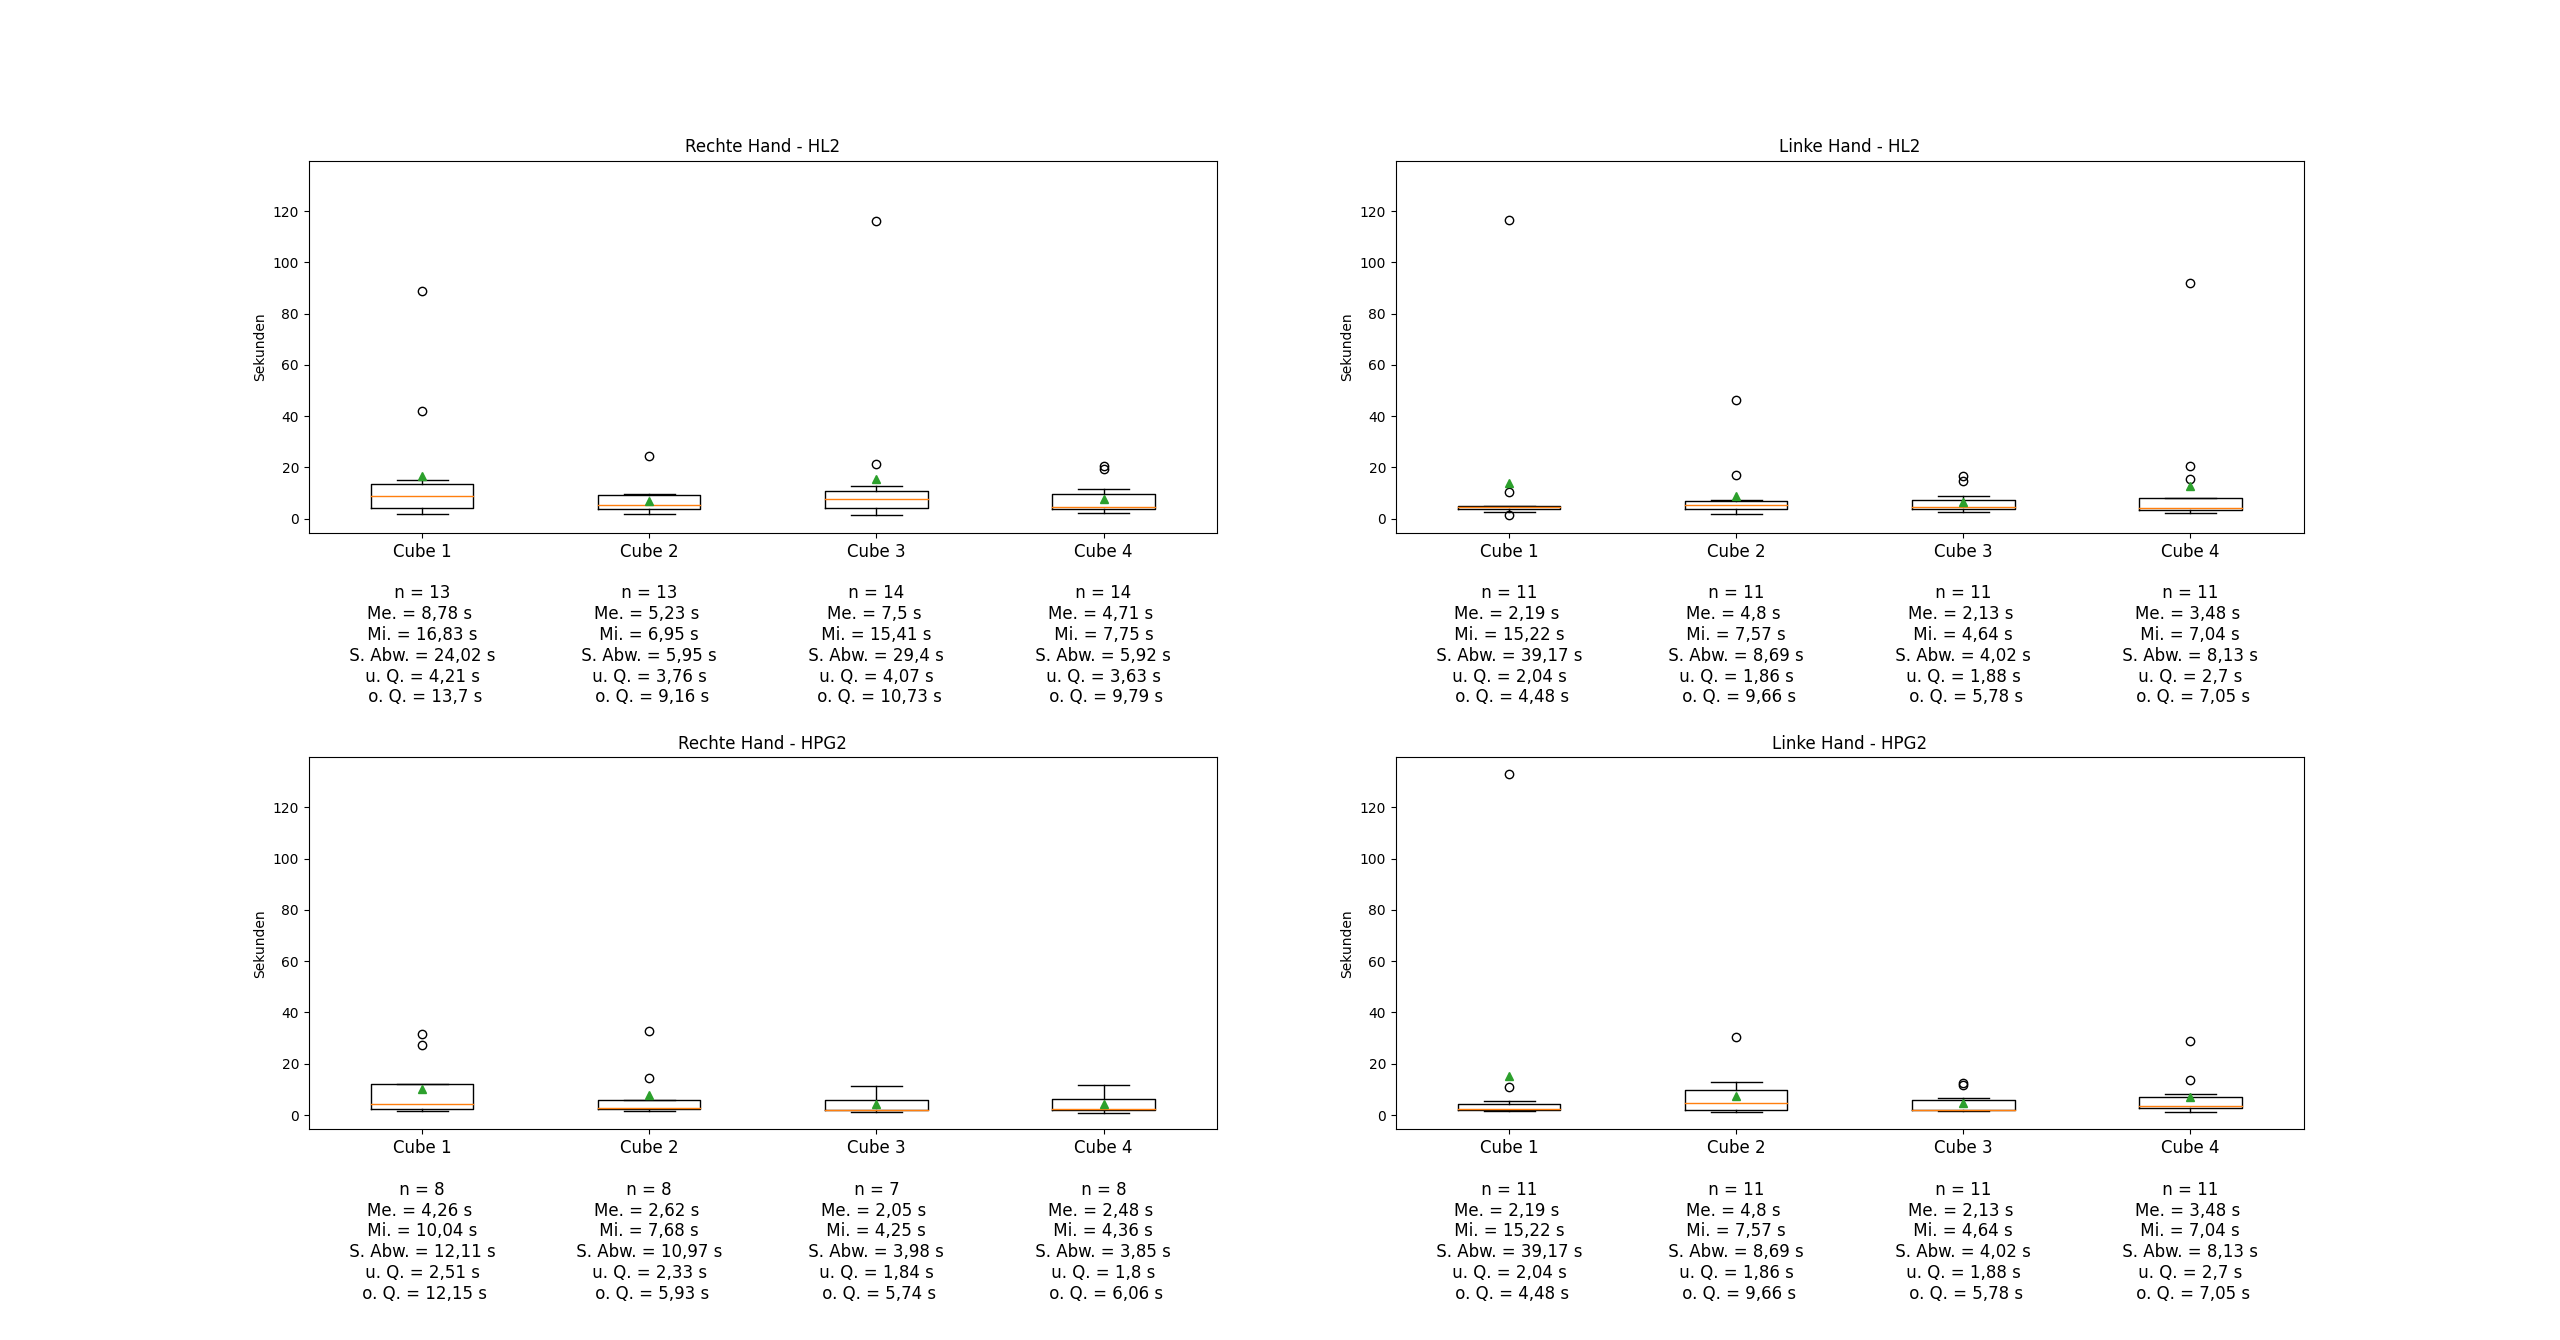
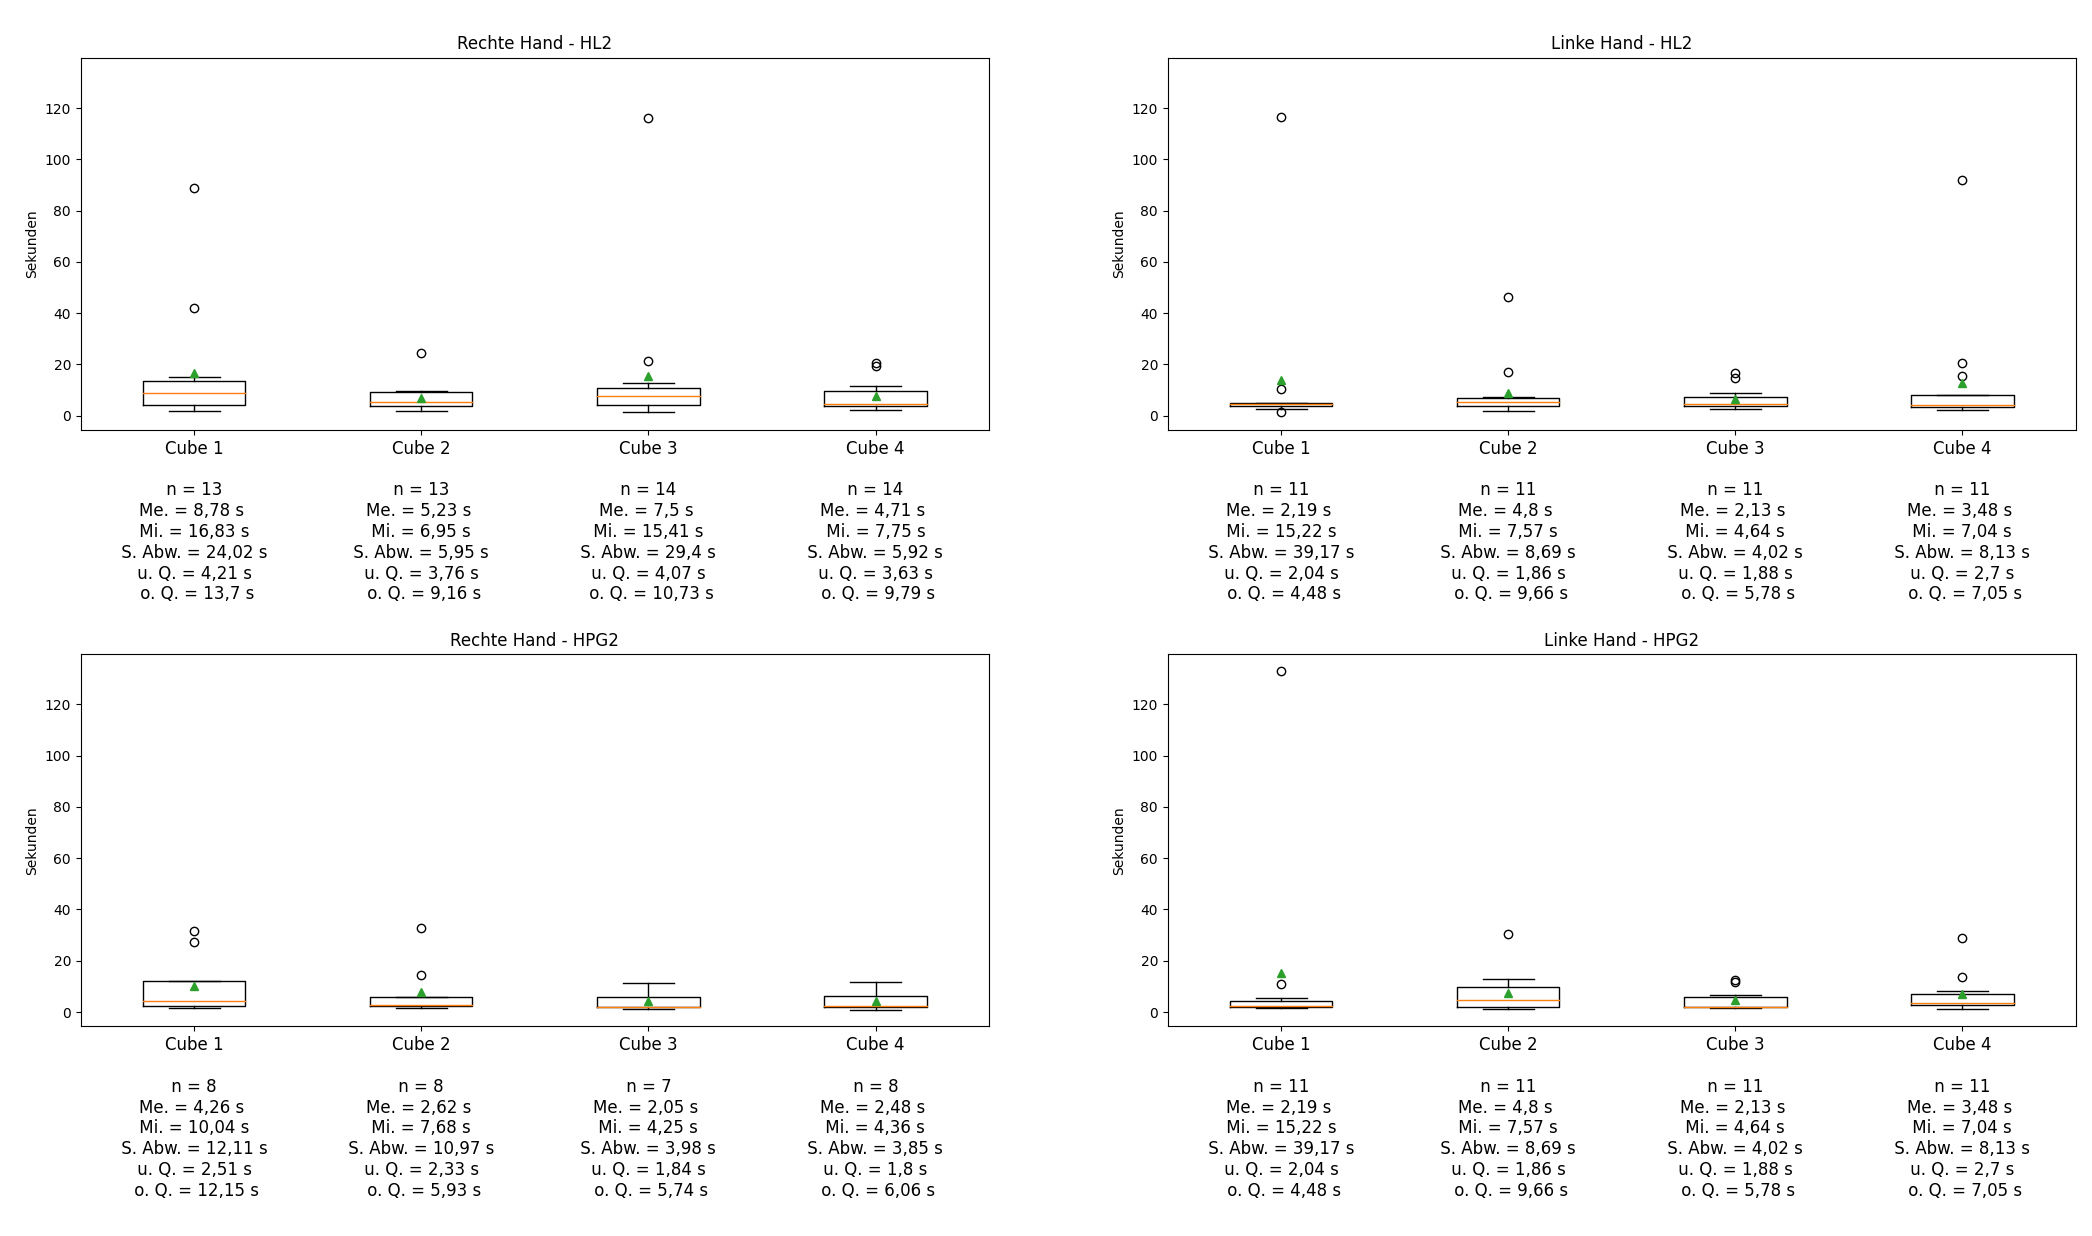
grinding on sn plot

diff --git a/ILM_WS202223/scene_SubmitNear/UWP/UWP_submitNear_Devices_Aggregate.py b/ILM_WS202223/scene_SubmitNear/UWP/UWP_submitNear_Devices_Aggregate.py
@@ -8,6 +8,9 @@ from statistics import mean
 import sys
 sys.path.append('C:/Users/Benedikt/Documents/dev/MA_LogParser/logparser/ILM_WS202223')
 import generalfunctions as gf
+import seaborn as sns
+from pandas.plotting import table
+from pandas.plotting import table
 
 from pymongo import MongoClient
 
@@ -569,44 +572,74 @@ if __name__ == "__main__":
     axs[1, 1].violinplot(box_aggrLeft_HL2, showmedians=True)
     axs[1, 1].sharey(axs[0, 0])
 
-    axs[0, 0].set(ylabel='Sekunden')
-    axs[0, 1].set(ylabel='Sekunden')
-    axs[1, 0].set(ylabel='Sekunden')
-    axs[1, 1].set(ylabel='Sekunden')
+    axs[0, 0].set_ylabel('Sekunden', fontsize=12)
+    axs[0, 1].set_ylabel('Sekunden', fontsize=12)
+    axs[1, 0].set_ylabel('Sekunden', fontsize=12)
+    axs[1, 1].set_ylabel('Sekunden', fontsize=12)
+
 
 
 
     descArray = ['Sn-1-Wi-R-HPG2', 'Sn-2-Wi-R-HPG2']
-    num, val = gf.setXTicksMin(box_aggrRight_HPG2, descArray)
-    axs[0, 0].set_title('1. Rechte Hand - HPG2')
+    num, val, df1 = gf.setXTicksMin(box_aggrRight_HPG2, descArray)
+    axs[0, 0].yaxis.grid(True, linestyle='-', which='major', color='lightgrey', alpha=0.5)
+    axs[0, 0].set_title('1. Rechte Hand - HPG2', fontsize=15)
     axs[0, 0].set_xticks(num, val)
     print('1. Rechte Hand - HPG2')
-    gf.reqLatexTableOutput(box_aggrRight_HPG2, descArray)
+    ttable = table(axs[0, 0], df1, loc='bottom', colLoc='center', cellLoc='center')
+    for key, cell in ttable.get_celld().items():
+        cell.set_edgecolor('lightgrey')
+        cell.set_height(0.05)
+    ttable.set_fontsize(12)
+    ttable.auto_set_font_size(False)
 
 
 
     descArray = ['Sn-1-Wi-R-HL2', 'Sn-2-Wi-R-HL2']
-    num, val = gf.setXTicksMin(box_aggrRight_HL2, descArray)
-    axs[1, 0].set_title('1. Rechte Hand - HL2')
-    axs[1, 0].set_xticks(num, val)
+    num, val, df2 = gf.setXTicksMin(box_aggrRight_HL2, descArray)
+    axs[1, 0].yaxis.grid(True, linestyle='-', which='major', color='lightgrey', alpha=0.5)
+    axs[1, 0].set_title('1. Rechte Hand - HL2', fontsize=15)
     print('1. Rechte Hand - HL2')
     gf.reqLatexTableOutput(box_aggrRight_HL2, descArray)
+    ttable = table(axs[1, 0], df2, loc='bottom', colLoc='center', cellLoc='center')
+    for key, cell in ttable.get_celld().items():
+        cell.set_edgecolor('lightgrey')
+        cell.set_height(0.05)
+    ttable.set_fontsize(12)
+    ttable.auto_set_font_size(False)
+    axs[1, 0].set_xticks([])
 
 
     descArray = ['Sn-1-Wi-L-HPG2', 'Sn-2-Wi-L-HPG2']
-    num, val = gf.setXTicksMin(box_aggrLeft_HL2, descArray)
-    axs[0, 1].set_title('2. Linke Hand - HPG2')
-    axs[0, 1].set_xticks(num, val)
+    num, val, df3 = gf.setXTicksMin(box_aggrLeft_HL2, descArray)
+    df3= df3.reset_index(drop=True)
+    axs[0, 1].set_title('2. Linke Hand - HPG2', fontsize=15)
+    axs[0, 1].yaxis.grid(True, linestyle='-', which='major', color='lightgrey', alpha=0.5)
     print('2. Linke Hand - HPG2')
     gf.reqLatexTableOutput(box_aggrLeft_HL2, descArray)
+    ttable = table(axs[0, 1], df3, loc='bottom', colLoc='center', cellLoc='center')
+    for key, cell in ttable.get_celld().items():
+        cell.set_edgecolor('lightgrey')
+        cell.set_height(0.05)
+    ttable.set_fontsize(12)
+    ttable.auto_set_font_size(False)
+    axs[0, 1].set_xticks([])
 
 
     descArray = ['Sn-1-Wi-L-HL2', 'Sn-2-Wi-L-HL2']
-    num, val = gf.setXTicksMin(box_aggrLeft_HPG2, descArray)
-    axs[1, 1].set_title('2. Linke Hand - HL2')
-    axs[1, 1].set_xticks(num, val)
+    num, val, df4 = gf.setXTicksMin(box_aggrLeft_HPG2, descArray)
+    df4 = df4.reset_index(drop=True)
+    axs[1, 1].set_title('2. Linke Hand - HL2', fontsize=15)
+    axs[1, 1].yaxis.grid(True, linestyle='-', which='major', color='lightgrey', alpha=0.5)
     print('2. Linke Hand - HL2')
     gf.reqLatexTableOutput(box_aggrLeft_HPG2, descArray)
+    ttable = table(axs[1, 1], df4, loc='bottom', colLoc='center', cellLoc='center')
+    for key, cell in ttable.get_celld().items():
+        cell.set_edgecolor('lightgrey')
+        cell.set_height(0.05)
+    ttable.set_fontsize(12)
+    ttable.auto_set_font_size(False)
+    axs[1, 1].set_xticks([])
 
     plt.show()
 

diff --git a/ILM_WS202223/mentally-preparing_Operator/UWP_M_First_Times_Scenes.py b/ILM_WS202223/mentally-preparing_Operator/UWP_M_First_Times_Scenes.py
@@ -8,6 +8,13 @@ from statistics import mean
 
 from pymongo import MongoClient
 
+import seaborn as sns
+from pandas.plotting import table
+from pandas.plotting import table
+import sys
+sys.path.append('C:/Users/Benedikt/Documents/dev/MA_LogParser/logparser/ILM_WS202223')
+import generalfunctions as gf
+
 
 ###
 ### For figuring out the operating times for teleporting
@@ -425,40 +432,56 @@ if __name__ == "__main__":
 
     col = dbname["uwp"]
 
-    probands = ['A01', 'A02', 'A03', 'A04', 'A05', 'A06', 'A07', 'A08', 'A09', 'A10', 'A11', 'A12',
-                'A13', 'A14', 'A15', 'A16', 'A17', 'A18',
-                'A19', 'A20', 'A21', 'A22', 'A23', 'A24', 'A25', 'A26', 'A27', 'A28']
+    probands = ['A01', 'A02', 'A03', 'A04', 'A05', 'A06', 'A07', 'A08', 'A09', 'A10',
+                'A11', 'A12', 'A13', 'A14', 'A15', 'A16', 'A17', 'A18', 'A19', 'A20',
+                'A21', 'A22', 'A23', 'A24', 'A25', 'A26', 'A27', 'A28']
     print(probands)
 
     devices = ['HL2']
     M_UWP_HL2_scenes = runAnalyzeElementSteps(probands, devices)
-    writeToDb('M_UWP_HL2_scenes', M_UWP_HL2_scenes)
+    writeToDb('M-AR', M_UWP_HL2_scenes)
 
     devices = ['HPG2']
     M_UWP_HPG2_scenes = runAnalyzeElementSteps(probands, devices)
-    writeToDb('M_UWP_HPG2_scenes', M_UWP_HPG2_scenes)
+    writeToDb('M-VR', M_UWP_HPG2_scenes)
 
     #sceneArray = [pointArray, gazeArray, grabRightArray, grabLeftArray,
     #              subFarRightArray, subFarLeftArray, subNearRightArray, subNearLeftArray]
 
-    descArray = ['Point', 'Gaze', 'GR Right', 'GR Left', 'SF Right', 'SF Left', 'SN Right', 'SN Left']
+    descArray = ['Point', 'Gaze', 'Gr Right', 'Gr Left', 'Sf Right', 'Sf Left', 'Sn Right', 'Sn Left']
 
     fig, axs = plt.subplots(1, 2, figsize=(10, 8))
 
 
-    axs[0].set_title('HL2')
+    axs[0].set_title('HoloLens 2', fontsize=15)
     axs[0].boxplot(M_UWP_HL2_scenes, showmeans=True)
-    num, val = setXTicks_param(M_UWP_HL2_scenes, descArray)
-    axs[0].set_xticks(num, val)
+    num, val, df1 = gf.setXTicks_param(M_UWP_HL2_scenes, descArray)
 
-    axs[1].set_title('HPG2')
+    ttable = table(axs[0], df1, loc='bottom', colLoc='center', cellLoc='center')
+    for key, cell in ttable.get_celld().items():
+        cell.set_edgecolor('lightgrey')
+        cell.set_height(0.05)
+    ttable.set_fontsize(12)
+    ttable.auto_set_font_size(False)
+    axs[0].set_xticks([])
+    axs[0].yaxis.grid(True, linestyle='-', which='major', color='lightgrey', alpha=0.5)
+
+    axs[1].set_title('Reverb G2', fontsize=15)
     axs[1].boxplot(M_UWP_HPG2_scenes, showmeans=True)
     axs[1].sharey(axs[0])
-    num, val = setXTicks_param(M_UWP_HPG2_scenes, descArray)
-    axs[1].set_xticks(num, val)
+    num, val, df2 = gf.setXTicks_param(M_UWP_HPG2_scenes, descArray)
+    df2 = df2.reset_index(drop=True)
+    ttable = table(axs[1], df2, loc='bottom', colLoc='center', cellLoc='center')
+    for key, cell in ttable.get_celld().items():
+        cell.set_edgecolor('lightgrey')
+        cell.set_height(0.05)
+    ttable.set_fontsize(12)
+    ttable.auto_set_font_size(False)
+    axs[1].set_xticks([])
+    axs[1].yaxis.grid(True, linestyle='-', which='major', color='lightgrey', alpha=0.5)
 
-    axs[0].set(ylabel='Sekunden')
-    axs[1].set(ylabel='Sekunden')
+    axs[0].set_ylabel('Sekunden', fontsize=12)
+    axs[1].set_ylabel('Sekunden', fontsize=12)
 
     plt.show()
 

diff --git a/ILM_WS202223/scene_Grab/MQ/GR_MQ_Times_First-Second.py b/ILM_WS202223/scene_Grab/MQ/GR_MQ_Times_First-Second.py
@@ -263,19 +263,19 @@ if __name__ == "__main__":
     # descArray = ['Rechts HL2', 'Rechts HPG2', 'Links HL2', 'Links HPG2', 'Rechts', 'Links', 'Gesamt']
     descArray = ['Gr-Ad-1-R', 'Gr-Ad-2-R', 'Gr-Ad-1-L', 'Gr-Ad-2-L', 'Gr-Ad-1', 'Gr-Ad-2']
 
-    num, val, df = setXTicks_param(allBoxplot, descArray)
+    num, val, df = gf.setXTicks_param(allBoxplot, descArray)
 
     plt.title('Android: Bearbeitungszeit des Grab-Operators', fontsize=15)
     plt.boxplot(allBoxplot, showmeans=True)
     plt.grid(axis='y', linestyle='-', which='major', color='lightgrey', alpha=0.5)
-    ttable = table(plt.axis, df, loc='bottom', colLoc='center', cellLoc='center')
+    ttable = table(plt.gca(), df, loc='bottom', colLoc='center', cellLoc='center')
     for key, cell in ttable.get_celld().items():
         cell.set_edgecolor('lightgrey')
         cell.set_height(0.05)
     ttable.set_fontsize(12)
     ttable.auto_set_font_size(False)
 
-    plt.xticks(num, val, fontsize=12)
+    plt.xticks([])
     plt.ylabel('Sekunden', fontsize=12)
 
     plt.show()

diff --git a/README.md b/README.md
@@ -37,6 +37,7 @@ import generalfunctions as gf
 
 
 - Table with Values and Dataframe
+With subplots:
 ``
 from pandas.plotting import table
 ttable = table(axs[0], df_Right, loc='bottom', colLoc='center', cellLoc='center')
@@ -48,9 +49,10 @@ ttable.auto_set_font_size(False)
 ``
 
 
+Without any subplots:
 ``
 fig, axs = plt.subplots(1, 1, figsize=(10, 8))
-ttable = table(axs, df, loc='bottom', colLoc='center', cellLoc='center')
+ttable = table(plt.gca(), df, loc='bottom', colLoc='center', cellLoc='center')
 plt.xticks([])
 axs.yaxis.grid(True, linestyle='-', which='major', color='lightgrey', alpha=0.5)
 plt.grid(axis='y', linestyle='-', which='major', color='lightgrey', alpha=0.5)
